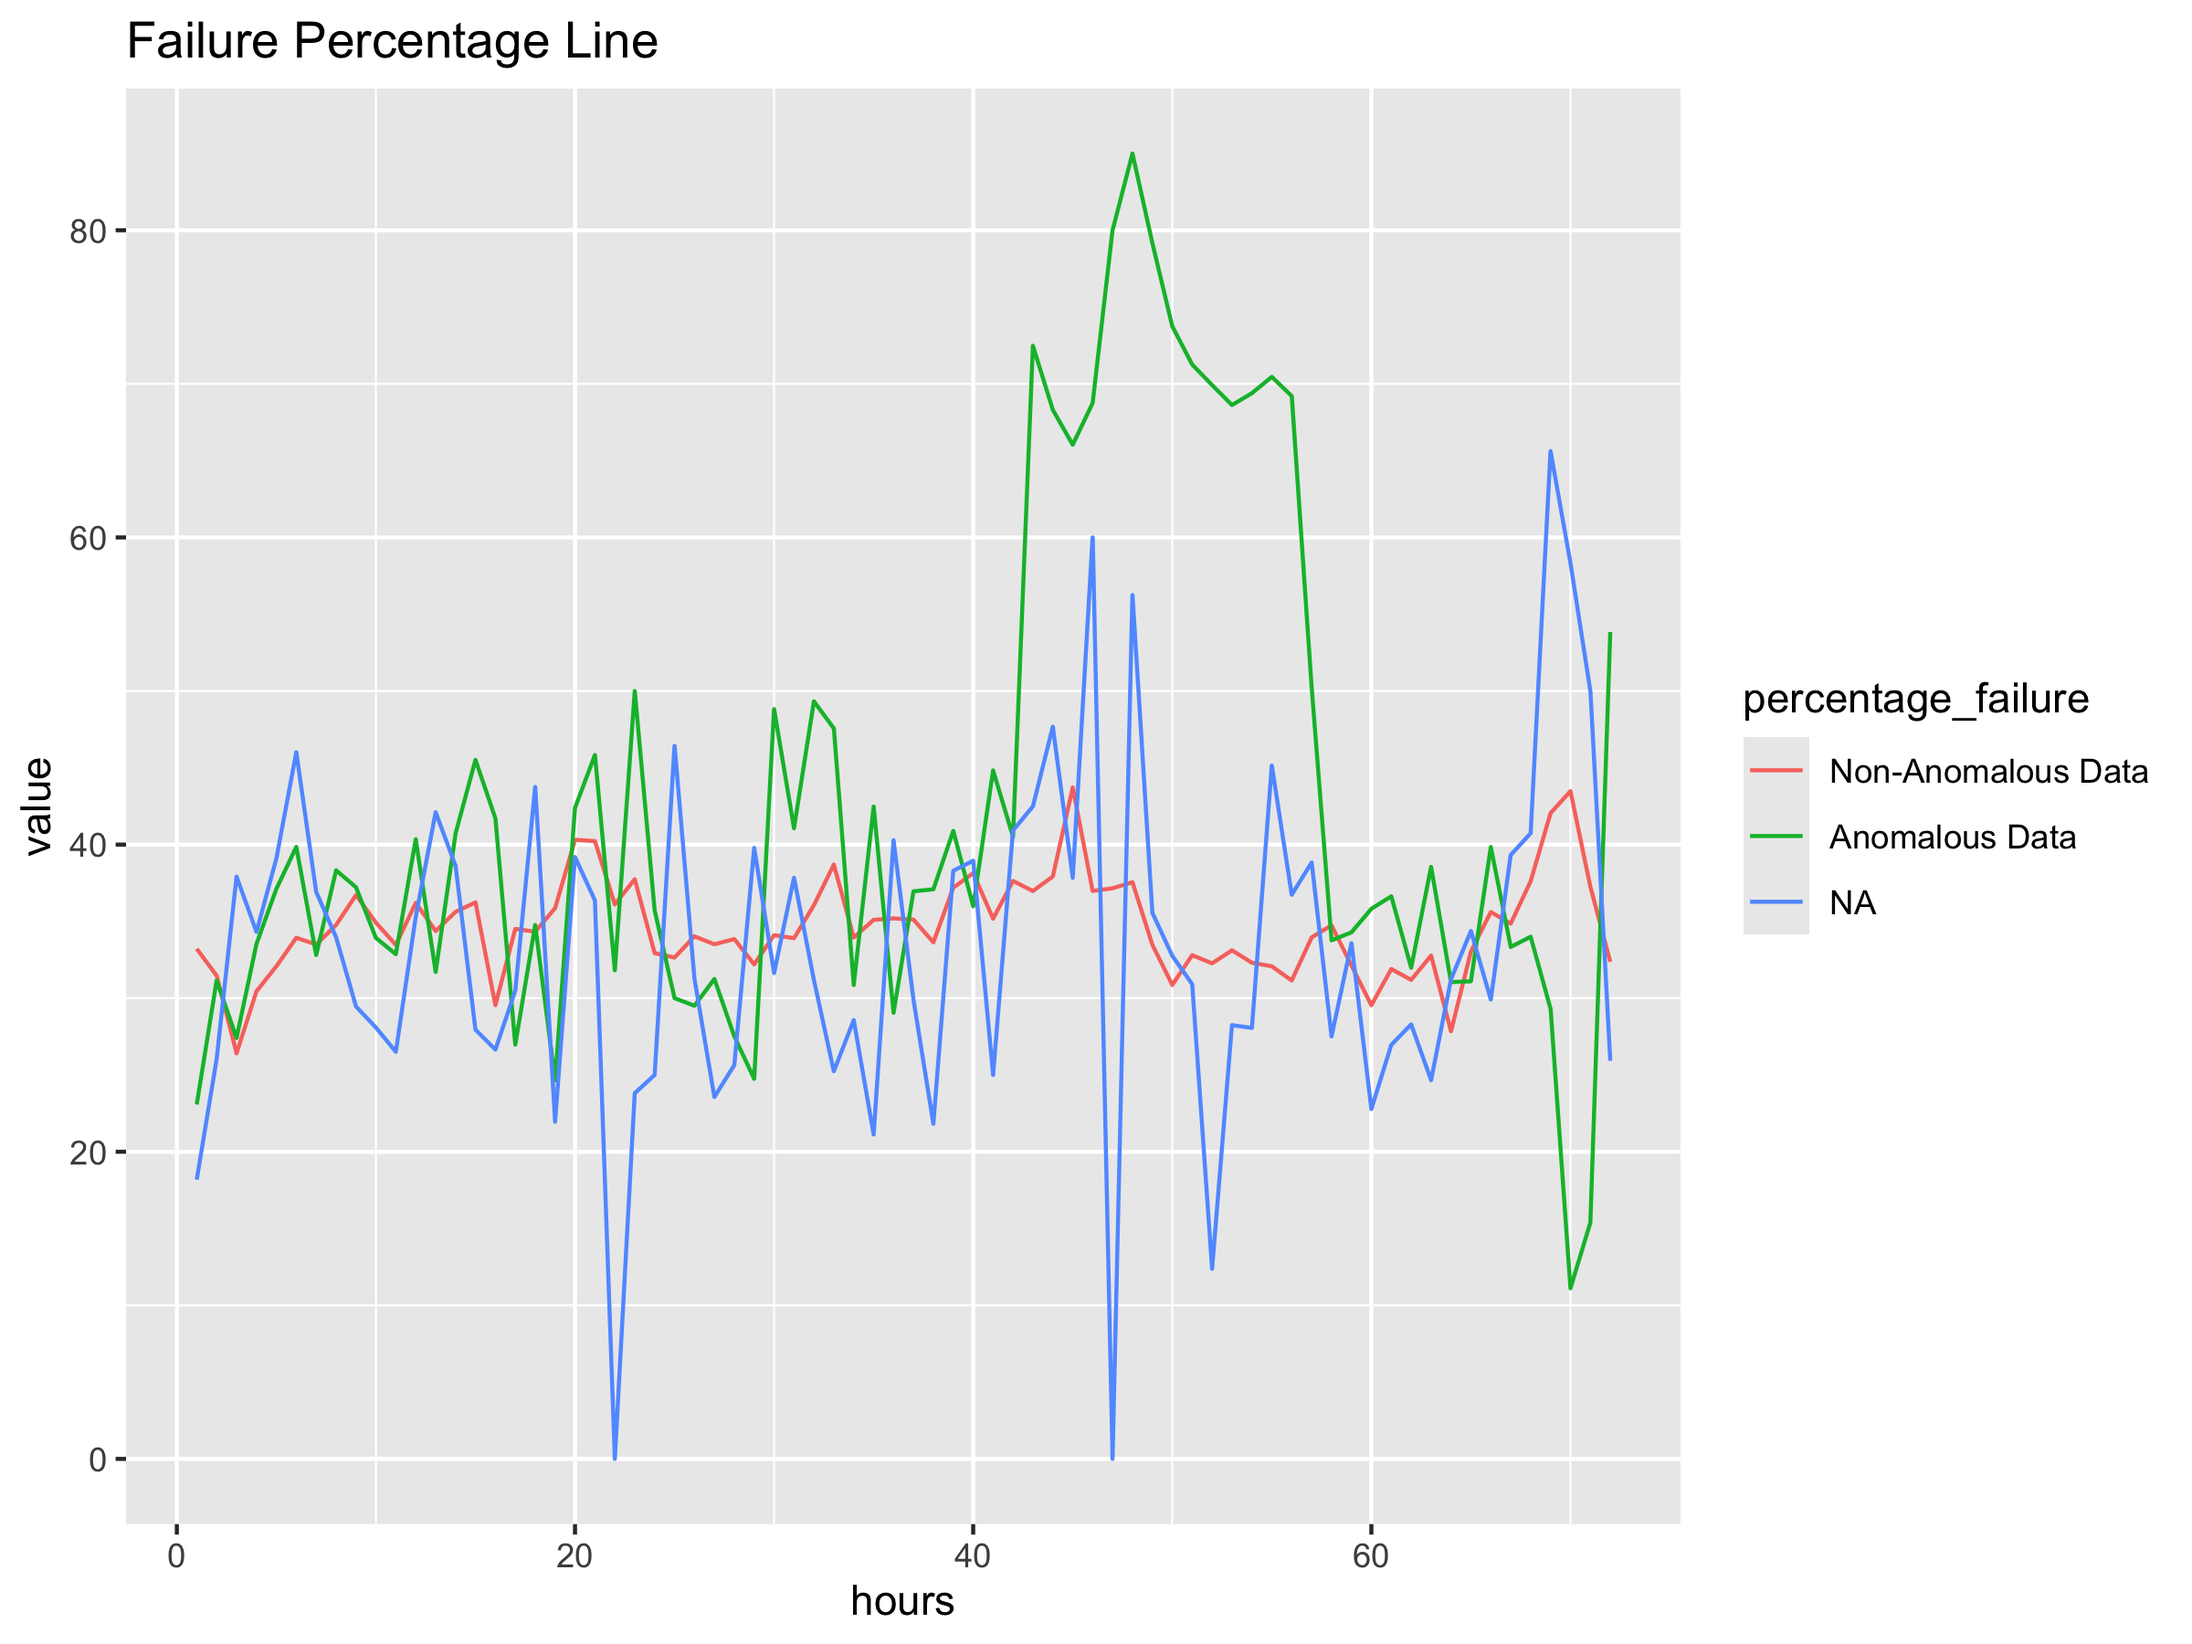
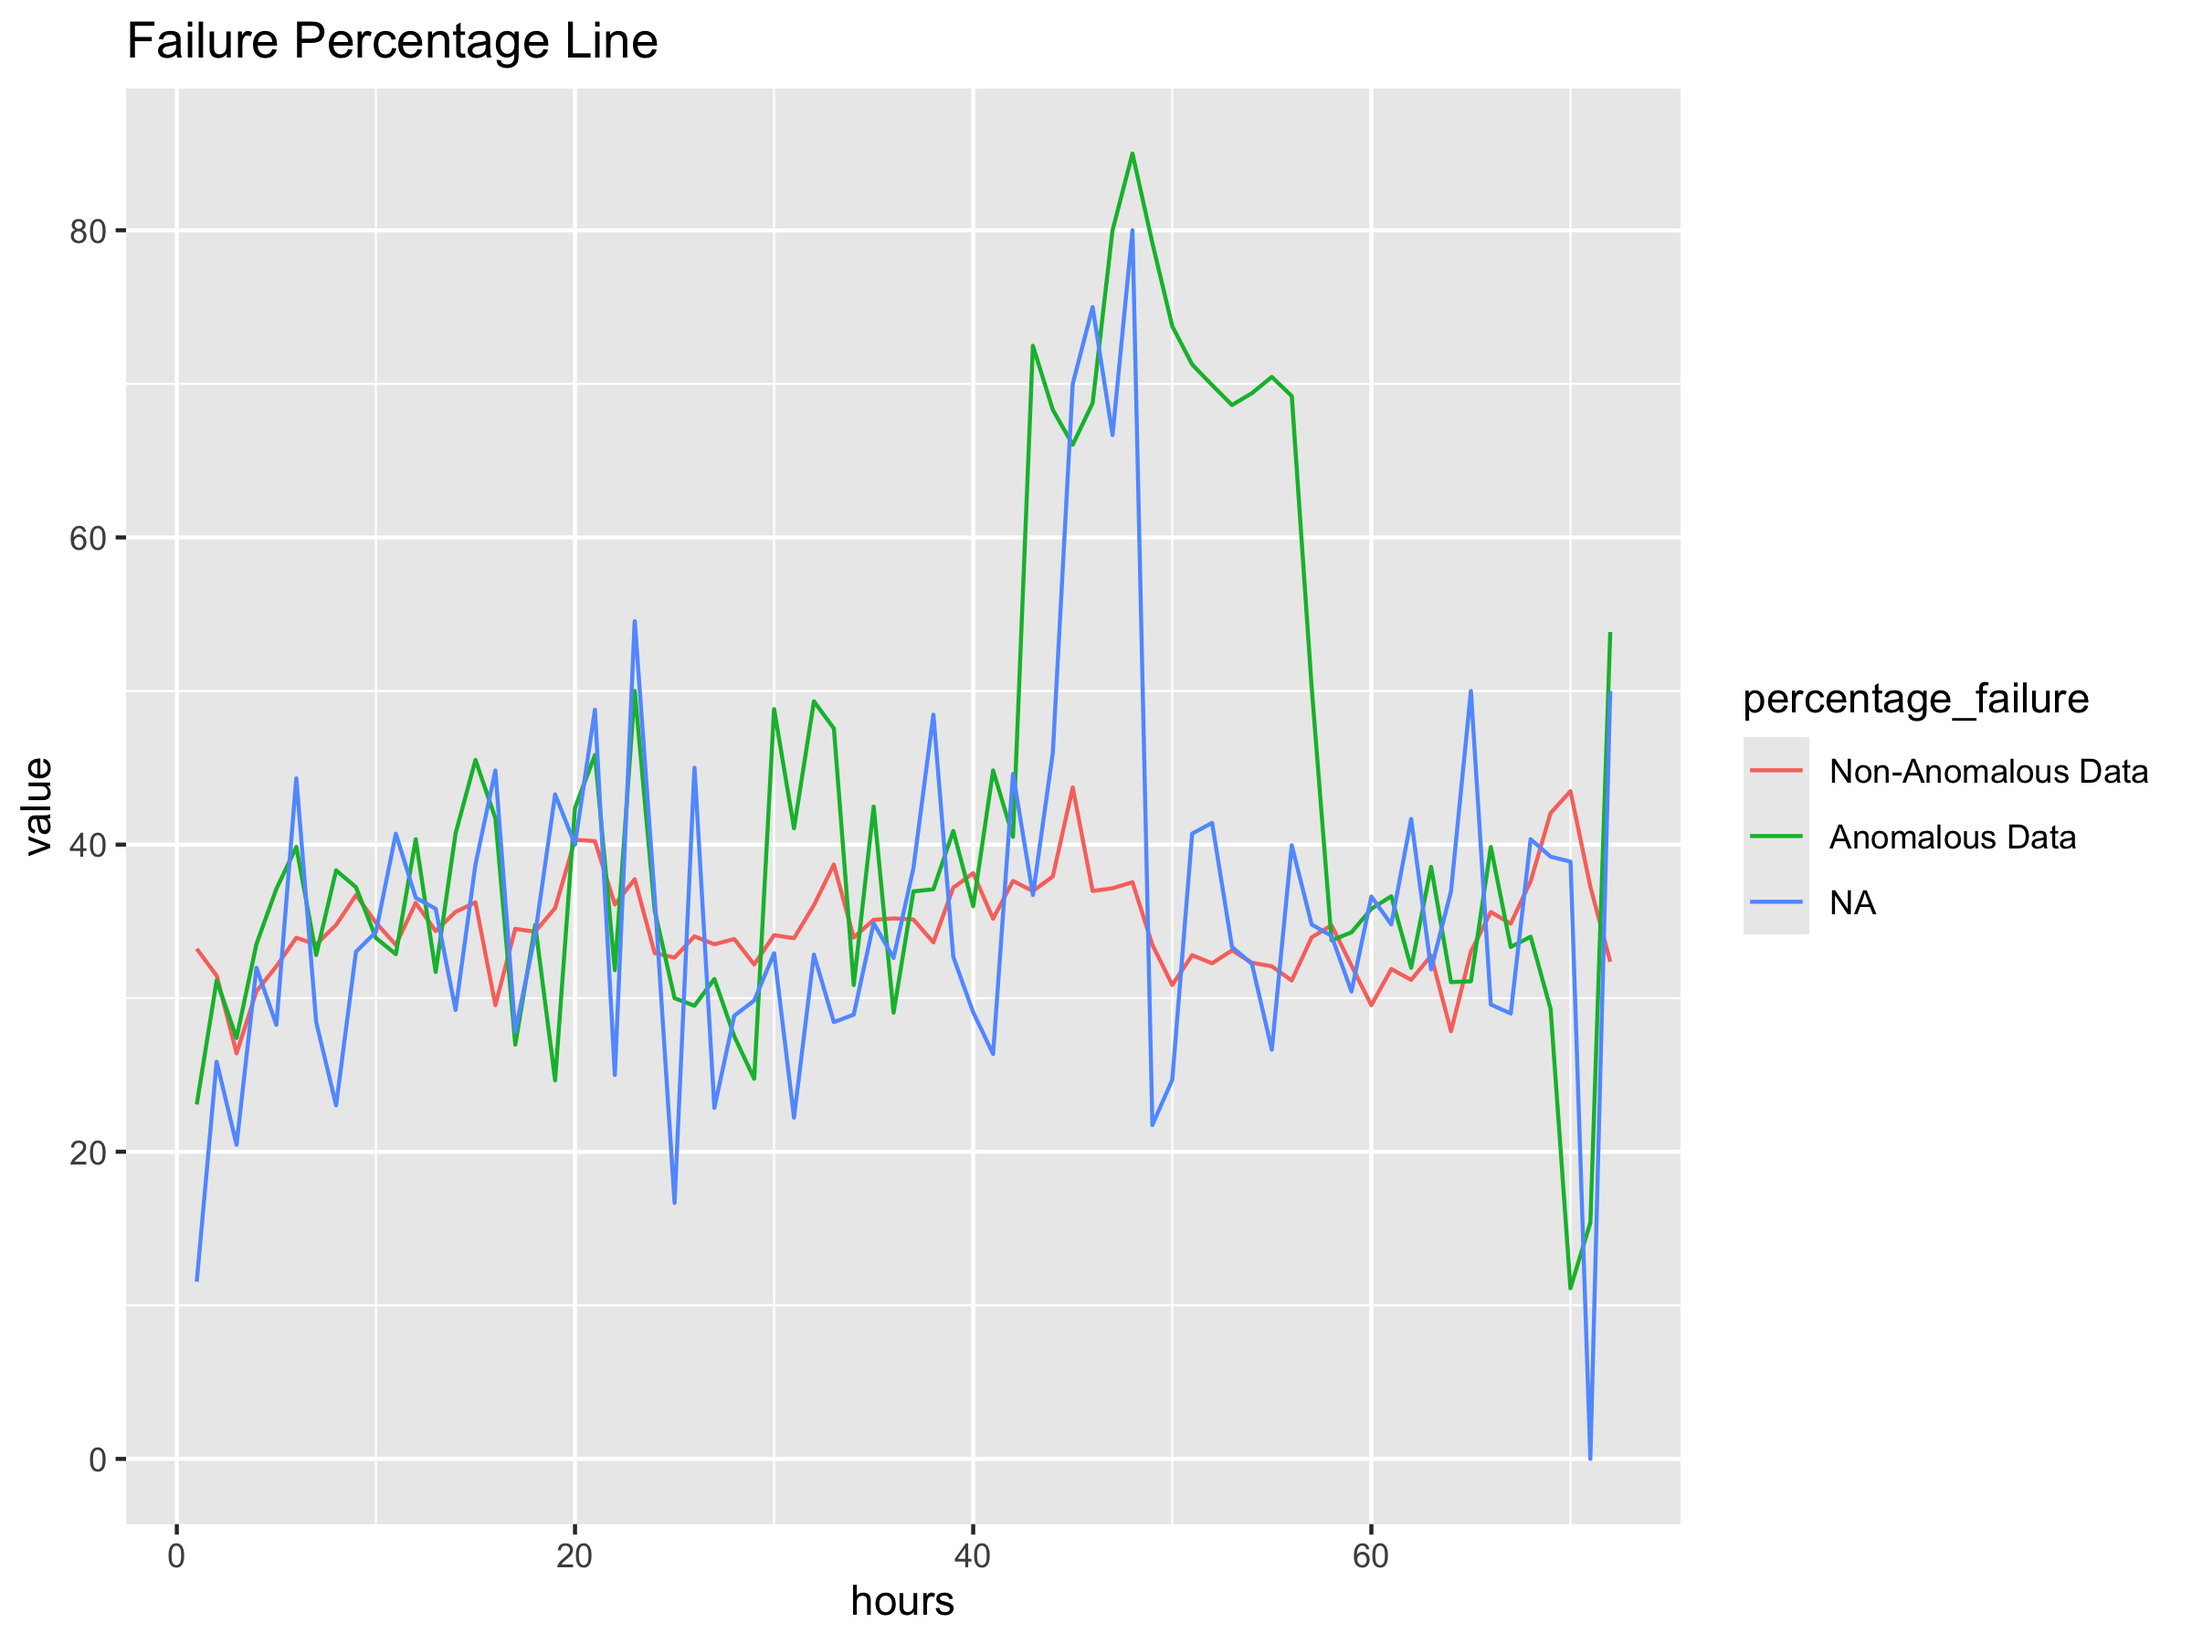
we gotta circle back on thsi tomarow this is totally incoherent

diff --git a/Anamoly_Detection/ReadMe.md b/Anamoly_Detection/ReadMe.md
@@ -56,40 +56,6 @@ unique_hours <- sort(unique_hours)
 
 plot failure rate for each hour
 
-``` r
-failed_transactions_rate <- data.frame(
-  hours = unique_hours, 
-  failedTransactions = failure_rate, 
-  x_index = seq(1, 72, by = 1)
-)
-
-ggplot(data = failed_transactions_rate, aes(x = x_index, y = failedTransactions)) + 
-  geom_area(fill = "blue", alpha = 0.25) + 
-  geom_line(color = "black") +  
-  scale_x_continuous(
-    breaks = seq(1, 72, by = 6), 
-    minor_breaks = 1:72, 
-    labels = unique_hours[seq(1, length(unique_hours), by = 6)]
-  ) + 
-  coord_cartesian(ylim = range(failed_transactions_rate$failedTransactions, na.rm = TRUE)) +  
-  labs(
-    title = "Failed Transactions Percentage by Hour", 
-    x = "Hour (72)", 
-    y = "Failed Transactions Per Hour"
-  ) +
-  theme(
-    axis.text.x = element_text(angle = 60, hjust = 1, size = 8), 
-    axis.title.x = element_text(size = 10), 
-    axis.title.y = element_text(size = 10),
-    plot.background = element_rect(fill = "white", color = NA),
-    panel.background = element_rect(fill = "white", color = NA),
-    panel.grid.major.x = element_blank(), 
-    panel.grid.minor.x = element_blank(), 
-    panel.grid.major.y = element_blank(), 
-    legend.position = "none"
-  )
-```
-
 <div align="center">
 
 <img src="ReadMe_files/figure-gfm/unnamed-chunk-5-1.png" width="70%">
@@ -103,40 +69,6 @@ Clearly there is a problem here, but we need to find precisely what
 caused this so the problem can be addressed.
 
 plotting total transaction failures for each hour
-
-``` r
-failed_transactions <- data.frame(
-  hours = unique_hours, 
-  failedTransactions = failure_count, 
-  x_index = seq(1, 72, by = 1)
-)
-
-ggplot(data = failed_transactions, aes(x = x_index, y = failedTransactions)) + 
-  geom_area(fill = "blue", alpha = 0.25) + 
-  geom_line(color = "black") +  
-  scale_x_continuous(
-    breaks = seq(1, 72, by = 6), 
-    minor_breaks = 1:72, 
-    labels = unique_hours[seq(1, length(unique_hours), by = 6)]
-  ) + 
-  coord_cartesian(ylim = range(failed_transactions$failedTransactions, na.rm = TRUE)) +  
-  labs(
-    title = "Failed Transactions Counts by Hour", 
-    x = "Hour (72)", 
-    y = "Failed Transactions Per Hour"
-  ) +
-  theme(
-    axis.text.x = element_text(angle = 60, hjust = 1, size = 8), 
-    axis.title.x = element_text(size = 10), 
-    axis.title.y = element_text(size = 10),
-    plot.background = element_rect(fill = "white", color = NA),
-    panel.background = element_rect(fill = "white", color = NA),
-    panel.grid.major.x = element_blank(), 
-    panel.grid.minor.x = element_blank(), 
-    panel.grid.major.y = element_blank(), 
-    legend.position = "none"
-  )
-```
 
 <div align="center">
 
@@ -157,24 +89,6 @@ dimensional distribution.
 The variables we will produce a distribution of will be failure
 percentage and transaction count, so we calculate and add them as new
 columns for each observations.
-
-``` r
-before_anamoly_detection_data <- data
-
-data$failures <- data[, 1] - data[, 2]
-data$failure_rate <- (data[, 1] - data[, 2]) / data[, 1]
-
-kable(head(data, 3), format = "html") %>%
-  kable_styling(position = "center") %>% 
-  save_kable(
-    file = "~/Desktop/DS_DA_Projects/Anamoly_Detection/ReadMe_files/figure-gfm/appended_1.png", 
-    zoom = 2
-  )
-
-knitr::include_graphics(
-  "~/Desktop/DS_DA_Projects/Anamoly_Detection/ReadMe_files/figure-gfm/appended_1.png"
-)
-```
 
 <div align="center">
 
@@ -238,12 +152,6 @@ filtered_data <- data[data$mahalanobis_score >= top_quartile, ]
 
 Table of the 10 observations found to have the greatest outlier score.
 
-``` r
-knitr::include_graphics(
-  "~/Desktop/DS_DA_Projects/Anamoly_Detection/ReadMe_files/figure-gfm/mscoreog.png"
-)
-```
-
 <div align="center">
 
 <img src="ReadMe_files/figure-gfm/mscoreog.png" width="70%">
@@ -287,34 +195,7 @@ proportion <- f / t[, 2] * 100
 failed_transactions <- data.frame(
   hours = unique_hours, 
   failedTransactions = proportion, 
-  x_index = seq(1, 72, by = 1)
-)
-
-ggplot(data = failed_transactions, aes(x = x_index, y = failedTransactions)) + 
-  geom_area(fill = "blue", alpha = 0.25) + 
-  geom_line(color = "black") + 
-  scale_x_continuous(
-    breaks = seq(1, 72, by = 6), 
-    minor_breaks = 1:72, 
-    labels = unique_hours[seq(1, length(unique_hours), by = 6)]
-  ) + 
-  coord_cartesian(ylim = range(failed_transactions$failedTransactions, na.rm = TRUE)) +  
-  labs(
-    title = "Failed Transactions Percentage by Hour", 
-    x = "Hour (72)", 
-    y = "Failed Transactions Per Hour"
-  ) +
-  theme(
-    axis.text.x = element_text(angle = 60, hjust = 1, size = 8), 
-    axis.title.x = element_text(size = 10),
-    axis.title.y = element_text(size = 10), 
-    plot.background = element_rect(fill = "white", color = NA),
-    panel.background = element_rect(fill = "white", color = NA), 
-    panel.grid.major.x = element_blank(),  
-    panel.grid.minor.x = element_blank(), 
-    panel.grid.major.y = element_blank(), 
-    legend.position = "none"
-  )
+  x_index = seq(1, 72, by = 1))
 ```
 
 <div align="center">
@@ -633,7 +514,7 @@ the following plots to compare the two.
 Then to produce a fair comparison, we make the number of observations
 within each set equal by selected 552 of the normal data rows at random.
 
-###### anomaly data
+anomaly data
 
 ``` r
 paytm_subset <- data[
@@ -681,7 +562,8 @@ transactions_compliment <- t
 
     ## [1] 34.63494
 
-###### normal data but equal number of observations selected at random as the anomalous subset
+normal data but equal number of observations selected at random as the
+anomalous subset
 
 ``` r
 paytm_compliment_sample <- paytm_compliment[sample(nrow(paytm_compliment), 1200), ]
@@ -698,13 +580,13 @@ compliment_sample_sizes <- t
 (sum(compliment_sample_sizes[,2]))
 ```
 
-    ## [1] 15232
+    ## [1] 13984
 
 ``` r
 cat("totall transactions in sample of observations from normal data of equal size to number of anamoly observations.",sum(compliment_sample_sizes[,2]))
 ```
 
-    ## totall transactions in sample of observations from normal data of equal size to number of anamoly observations. 15232
+    ## totall transactions in sample of observations from normal data of equal size to number of anamoly observations. 13984
 
 ``` r
 hours <- seq(1, 72, 1)
@@ -739,7 +621,7 @@ ggplot(data = long, aes(x = hours, y = value, group = percentage_failure, color 
 cat("totall transactions in sample of observations from normal data of equal size to number of anamoly observations.",sum(compliment_sample_sizes[,2]))
 ```
 
-    ## totall transactions in sample of observations from normal data of equal size to number of anamoly observations. 15232
+    ## totall transactions in sample of observations from normal data of equal size to number of anamoly observations. 13984
 
 To make a fair comparison of the anomalous data and normal data before
 the anomaly event, the blue line is the failure rate of the normal data
